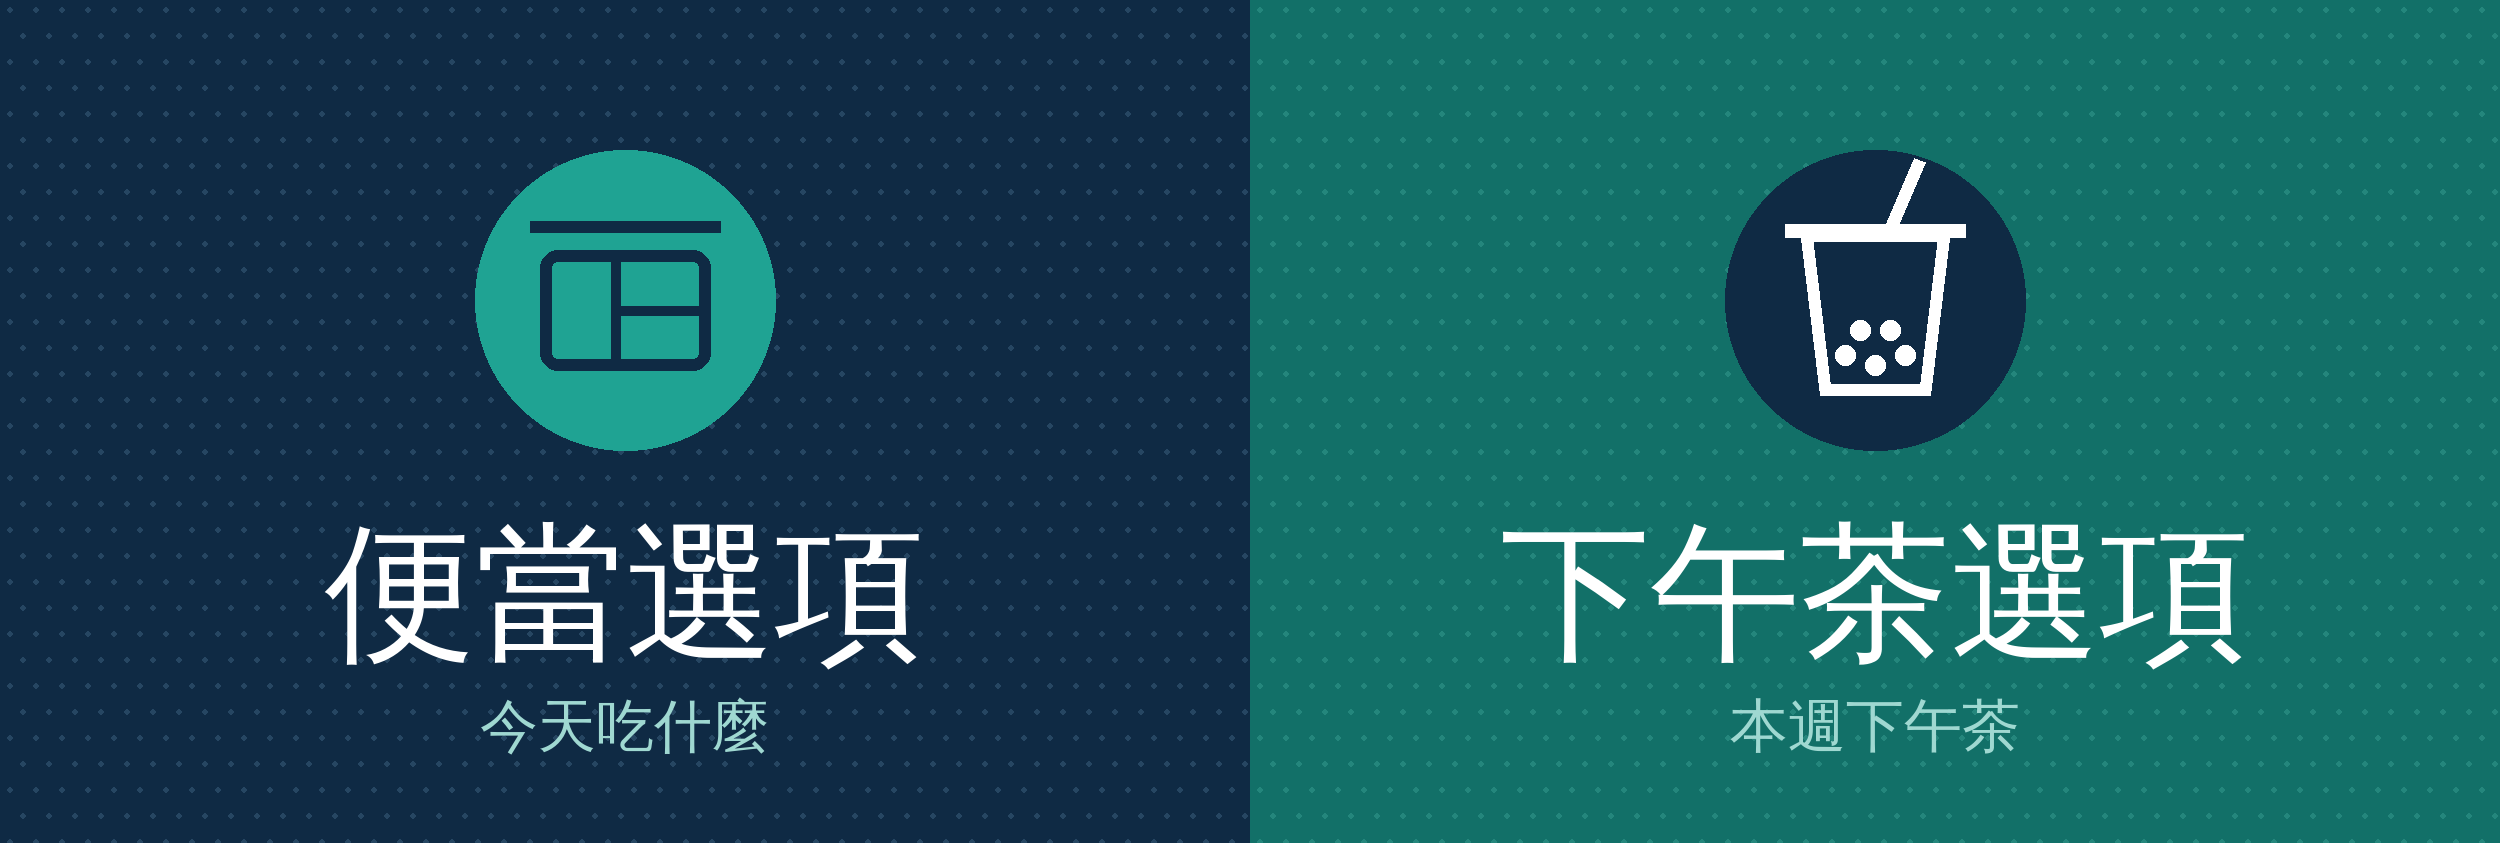
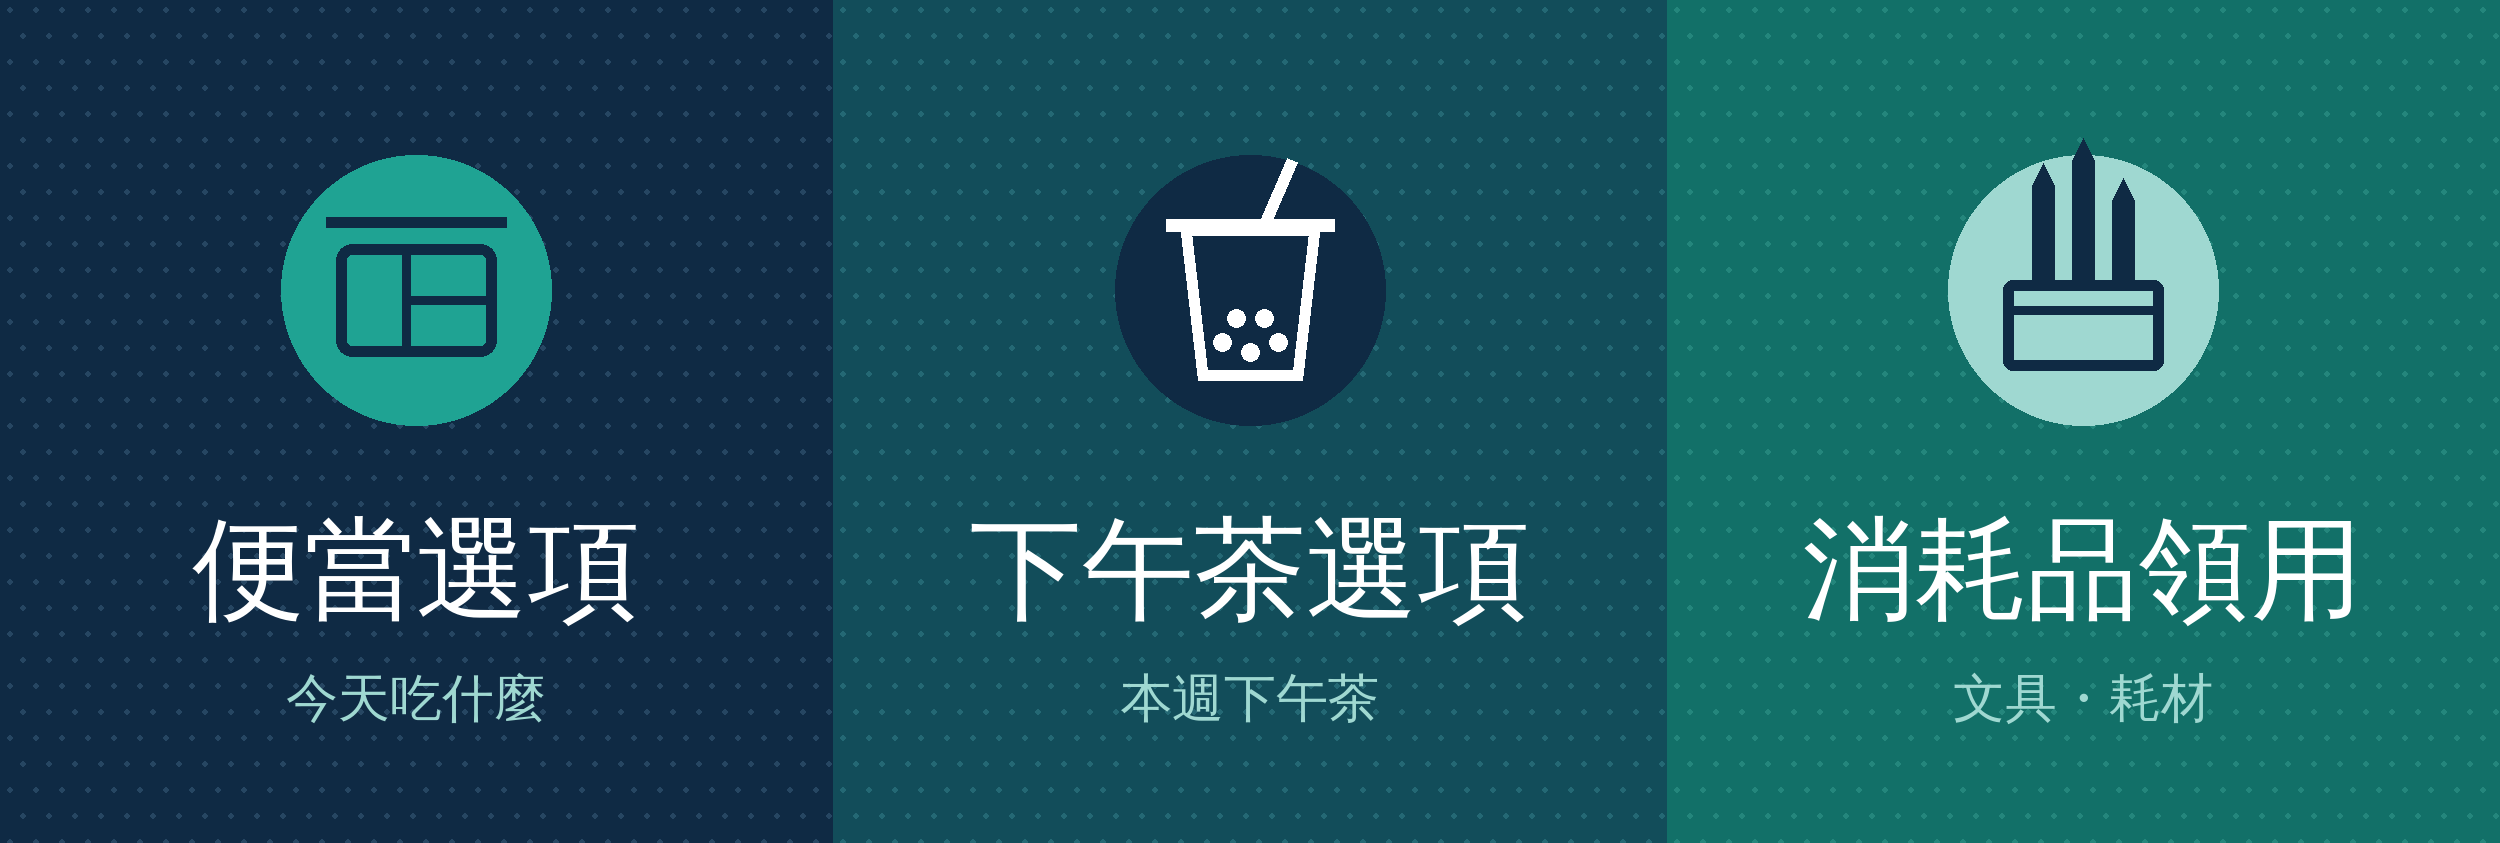
Make the rich menu three buttons with 消耗品領用
Claude-Session: https://claude.ai/code/session_01RNGtRc8tw4TqbQC8cCnGBb

diff --git a/supabase/functions/line-richmenu/index.ts b/supabase/functions/line-richmenu/index.ts
@@ -1,4 +1,4 @@
-// 建立「便當選項／下午茶選項」圖文選單並設為所有人的預設選單
+// 建立「便當選項／下午茶選項／消耗品領用」圖文選單並設為所有人的預設選單
 // 由資料庫用 pg_net 呼叫一次（驗證 x-cron-secret）；重跑會先刪掉舊的同名選單
 
 import { createClient } from "npm:@supabase/supabase-js@2";
@@ -33,8 +33,9 @@ Deno.serve(async (req) => {
       name: NAME,
       chatBarText: "點餐",
       areas: [
-        { bounds: { x: 0, y: 0, width: 1250, height: 843 }, action: { type: "uri", label: "便當選項", uri: `https://liff.line.me/${LIFF_ID}?tab=lunch` } },
-        { bounds: { x: 1250, y: 0, width: 1250, height: 843 }, action: { type: "uri", label: "下午茶選項", uri: `https://liff.line.me/${LIFF_ID}?tab=tea` } },
+        { bounds: { x: 0, y: 0, width: 833, height: 843 }, action: { type: "uri", label: "便當選項", uri: `https://liff.line.me/${LIFF_ID}?tab=lunch` } },
+        { bounds: { x: 833, y: 0, width: 834, height: 843 }, action: { type: "uri", label: "下午茶選項", uri: `https://liff.line.me/${LIFF_ID}?tab=tea` } },
+        { bounds: { x: 1667, y: 0, width: 833, height: 843 }, action: { type: "uri", label: "消耗品領用", uri: `https://liff.line.me/${LIFF_ID}?tab=supply` } },
       ],
     }),
   });
